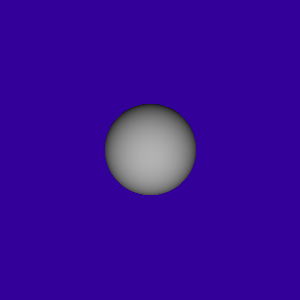
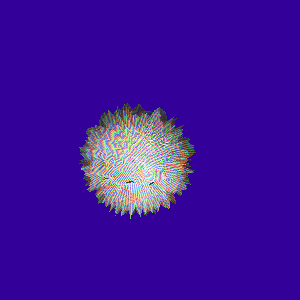
displacement mapping

Changed region(s): [[0.27, 0.33, 0.66, 0.72]]

diff --git a/src/Material.h b/src/Material.h
@@ -19,7 +19,8 @@ class Material
         _diffuseColor(diffuseColor),
         _specularColor(specularColor),
         _shininess(shininess),
-        _refractionIndex(refractionIndex)
+        _refractionIndex(refractionIndex),
+		_hasDisplacement(false)
     {
     }
 
@@ -81,6 +82,19 @@ class Material
         _texture.load(filename);
     }
 
+	void loadDisplacement(const std::string &filename){
+		_displacementMap.load(filename);
+		_hasDisplacement = true;
+	}
+
+	float getDisplacement(Vector2f &uv){
+		return  _displacementMap.getTexel(uv.x(), uv.y()).y();
+	}
+
+	bool hasDisplacement(){
+		return _hasDisplacement;
+	}
+
     static Vector3f pointwiseDot(const Vector3f &v1, const Vector3f &v2) {
         return Vector3f(v1[0] * v2[0], v1[1] * v2[1], v1[2] * v2[2]);
     }
@@ -97,6 +111,8 @@ protected:
     float _refractionIndex;
     Texture _texture;
     Noise _noise;
+	Texture _displacementMap;
+	bool _hasDisplacement;
 };
 
 #endif // MATERIAL_H

diff --git a/src/SceneParser.cpp b/src/SceneParser.cpp
@@ -267,6 +267,8 @@ SceneParser::parseMaterial()
 {
     char token[MAX_PARSER_TOKEN_LENGTH];
     char filename[MAX_PARSER_TOKEN_LENGTH];
+	char displacementMapName[MAX_PARSER_TOKEN_LENGTH];
+	displacementMapName[0] = 0;
     filename[0] = 0;
     Vector3f diffuseColor(1,1,1), specularColor(0,0,0);
     float shininess = 0;
@@ -296,6 +298,9 @@ SceneParser::parseMaterial()
         else if(strcmp(token,"Noise")==0){
             noise = parseNoise();
         }
+		else if(strcmp(token, "displacement") == 0){
+			getToken(displacementMapName);
+		}
         else {
             assert(!strcmp(token, "}"));
             break;
@@ -305,6 +310,9 @@ SceneParser::parseMaterial()
     if(filename[0] !=0){
         answer->loadTexture(filename);
     }
+	if(displacementMapName[0] != 0){
+		answer -> loadDisplacement(displacementMapName);
+	}
     if (noise) {
         answer->setNoise(*noise);
         delete noise;

diff --git a/src/Mesh.cpp b/src/Mesh.cpp
@@ -141,8 +141,6 @@ Mesh::Mesh(const std::string &filename, Material *material) :
 			}
 		}
 	}
-	std::cout << "got here";
-	std::cout << n.size();
     // Set up triangles
     for (size_t i = 0; i < t.size(); i++) {
         Triangle triangle(v[t[i][0]],
@@ -159,9 +157,7 @@ Mesh::Mesh(const std::string &filename, Material *material) :
         }
         _triangles.push_back(triangle);
     }
-	std::cout << "got here";
-    octree.build(this);
-	std::cout << "got here";
+    //octree.build(this);
 }
 
 bool
@@ -180,4 +176,12 @@ Mesh::intersectTrig(int idx) const
     const Triangle &triangle = _triangles[idx];
     bool result = triangle.intersect(*ray, tm, *hit);
     return result;
+}
+
+void
+Mesh::preRender() {
+	for (int i = 0; i < _triangles.size(); i++){
+		_triangles[i].preRender();
+	}
+	octree.build(this);
 }

diff --git a/src/Image.cpp b/src/Image.cpp
@@ -3,6 +3,7 @@
 #include <cstring>
 #include <cassert>
 #include <stdint.h>
+#include <iostream>
 
 #include "Image.h"
 
@@ -55,7 +56,7 @@ Image::loadPNG(const std::string &filename)
     int w, h, n;
     unsigned char *buffer = stbi_load(filename.c_str(), &w, &h, &n, 0);
     assert(buffer != NULL);
-    assert(n == 3);
+    //assert(n == 3); dunno why this is needed;
 
     Image *image = new Image(w, h);
 

diff --git a/src/Triangle.h b/src/Triangle.h
@@ -69,6 +69,15 @@ class Triangle: public Object3D
         return false;
     }
 
+	virtual void preRender(){
+		if (getMaterial()->hasDisplacement()){
+			for (int i = 0; i < 3; i++){
+				
+				_v[i] = _v[i] + getMaterial() -> getDisplacement(_texCoords[i]) * _normals[i];
+			}
+		}
+	}
+
     void setTex(const Vector2f &uva,
                 const Vector2f &uvb,
                 const Vector2f &uvc)

diff --git a/src/Group.h b/src/Group.h
@@ -35,6 +35,12 @@ class Group : public Object3D
       return flag;  
     }
 
+	virtual void preRender() {
+		for (int i = 0; i < objs.size(); i++){
+			objs[i] -> preRender();
+		}
+	}
+
     // Add object to group
     void addObject(Object3D *obj)
     {

diff --git a/src/Renderer.cpp b/src/Renderer.cpp
@@ -194,7 +194,7 @@ Renderer::Render()
   Camera * cam = this->_scene.getCamera();
   Group * group = this->_scene.getGroup();
   Image outputF = Image(width,height);
-
+  group->preRender();
 
   if(_args.jitter){
     x_step /=3;

diff --git a/src/Mesh.h b/src/Mesh.h
@@ -18,6 +18,8 @@ class Mesh : public Object3D {
 
     virtual bool intersectTrig(int idx) const;
 
+	virtual void preRender();
+
     const std::vector<Triangle> & getTriangles() const {
         return _triangles;
     }

diff --git a/src/Object3D.h b/src/Object3D.h
@@ -32,6 +32,8 @@ class Object3D
 
     virtual bool intersect(const Ray &r, float tmin, Hit &h) const = 0;
 
+	virtual void preRender() {};
+
   private:
     std::string type;
     Material *material;
